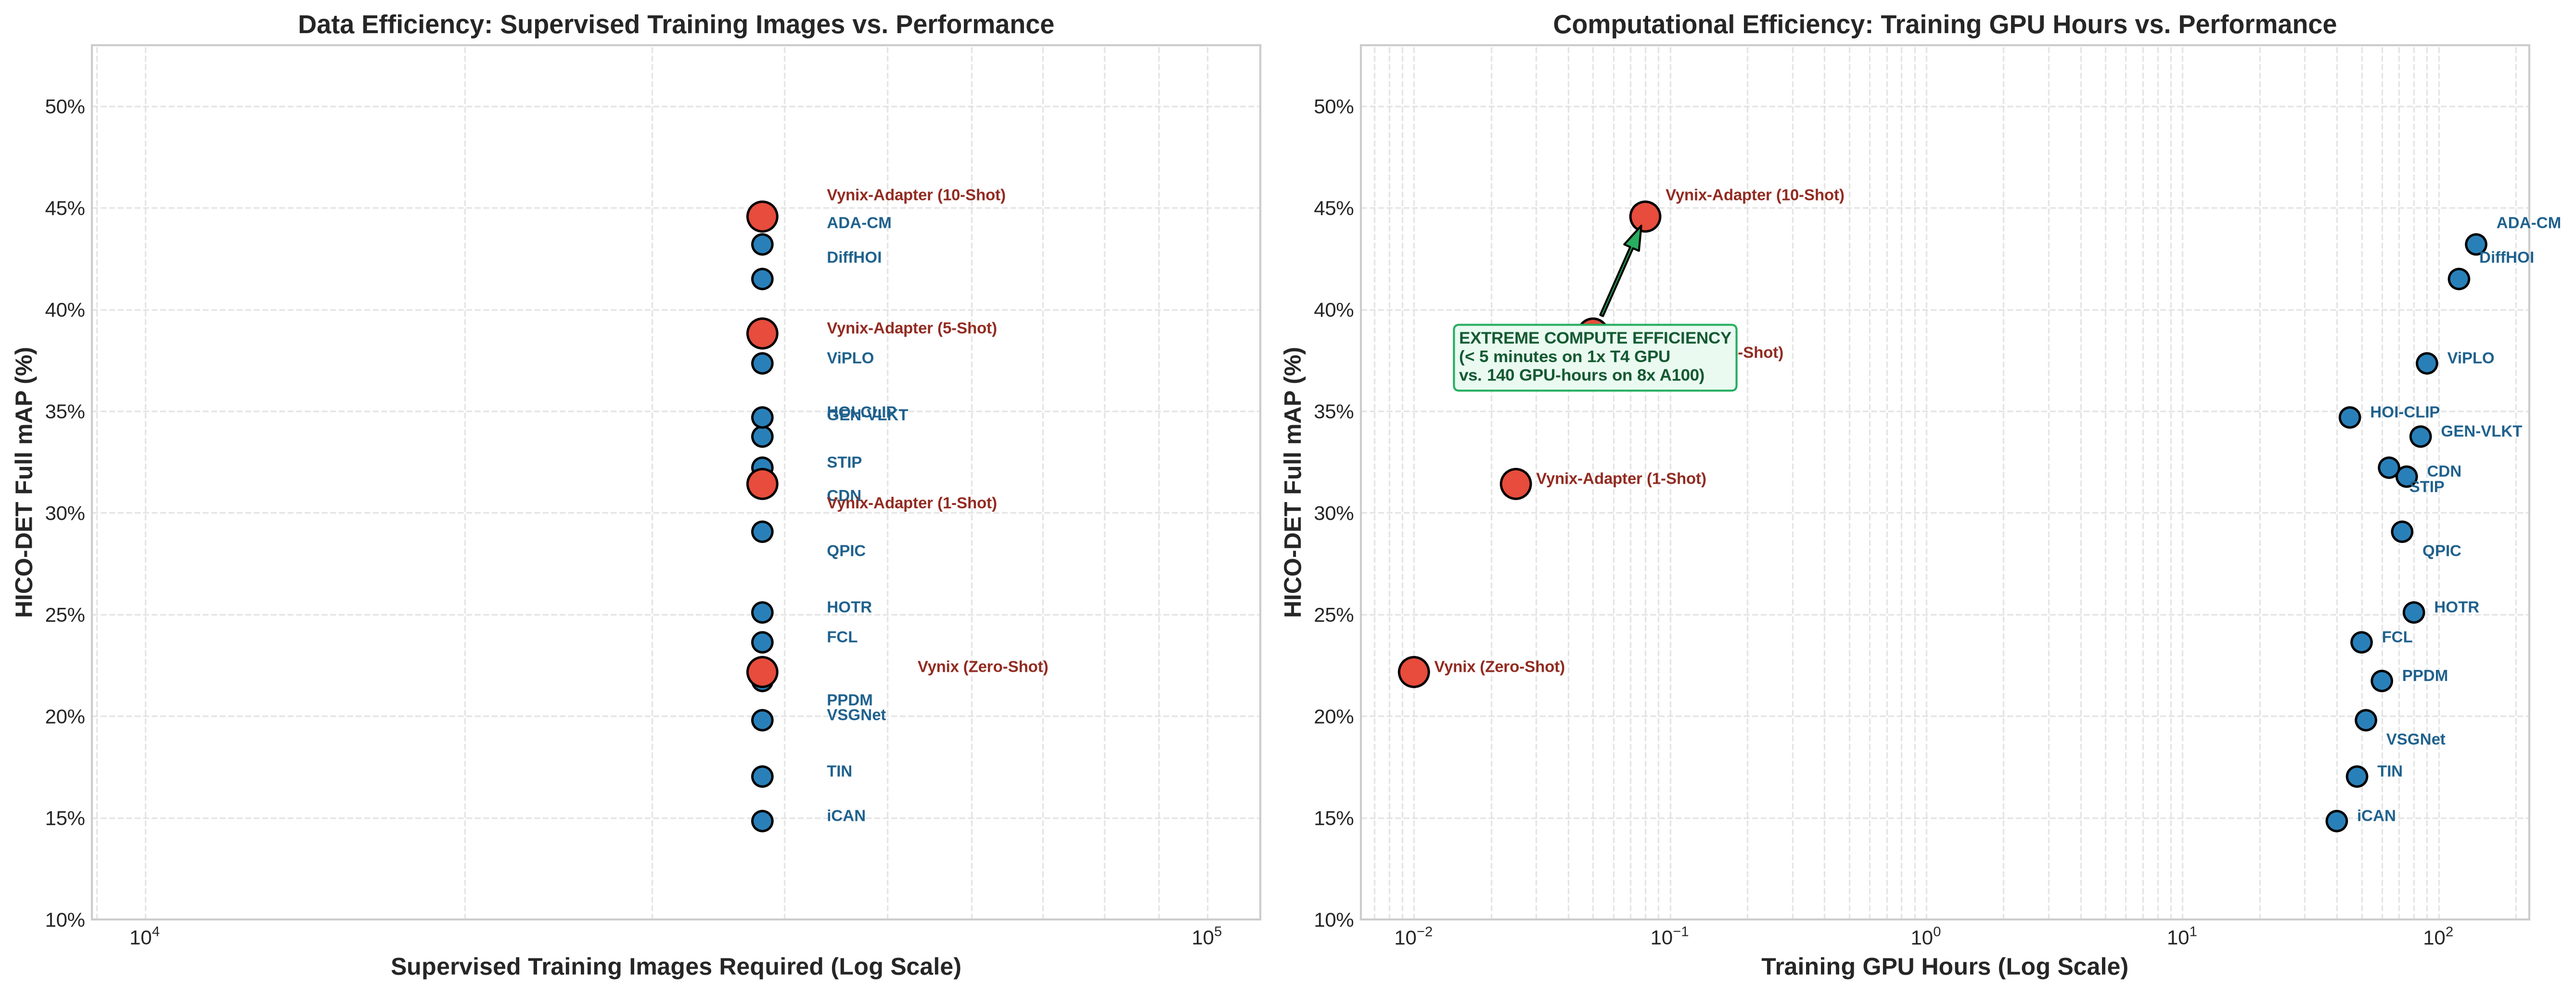
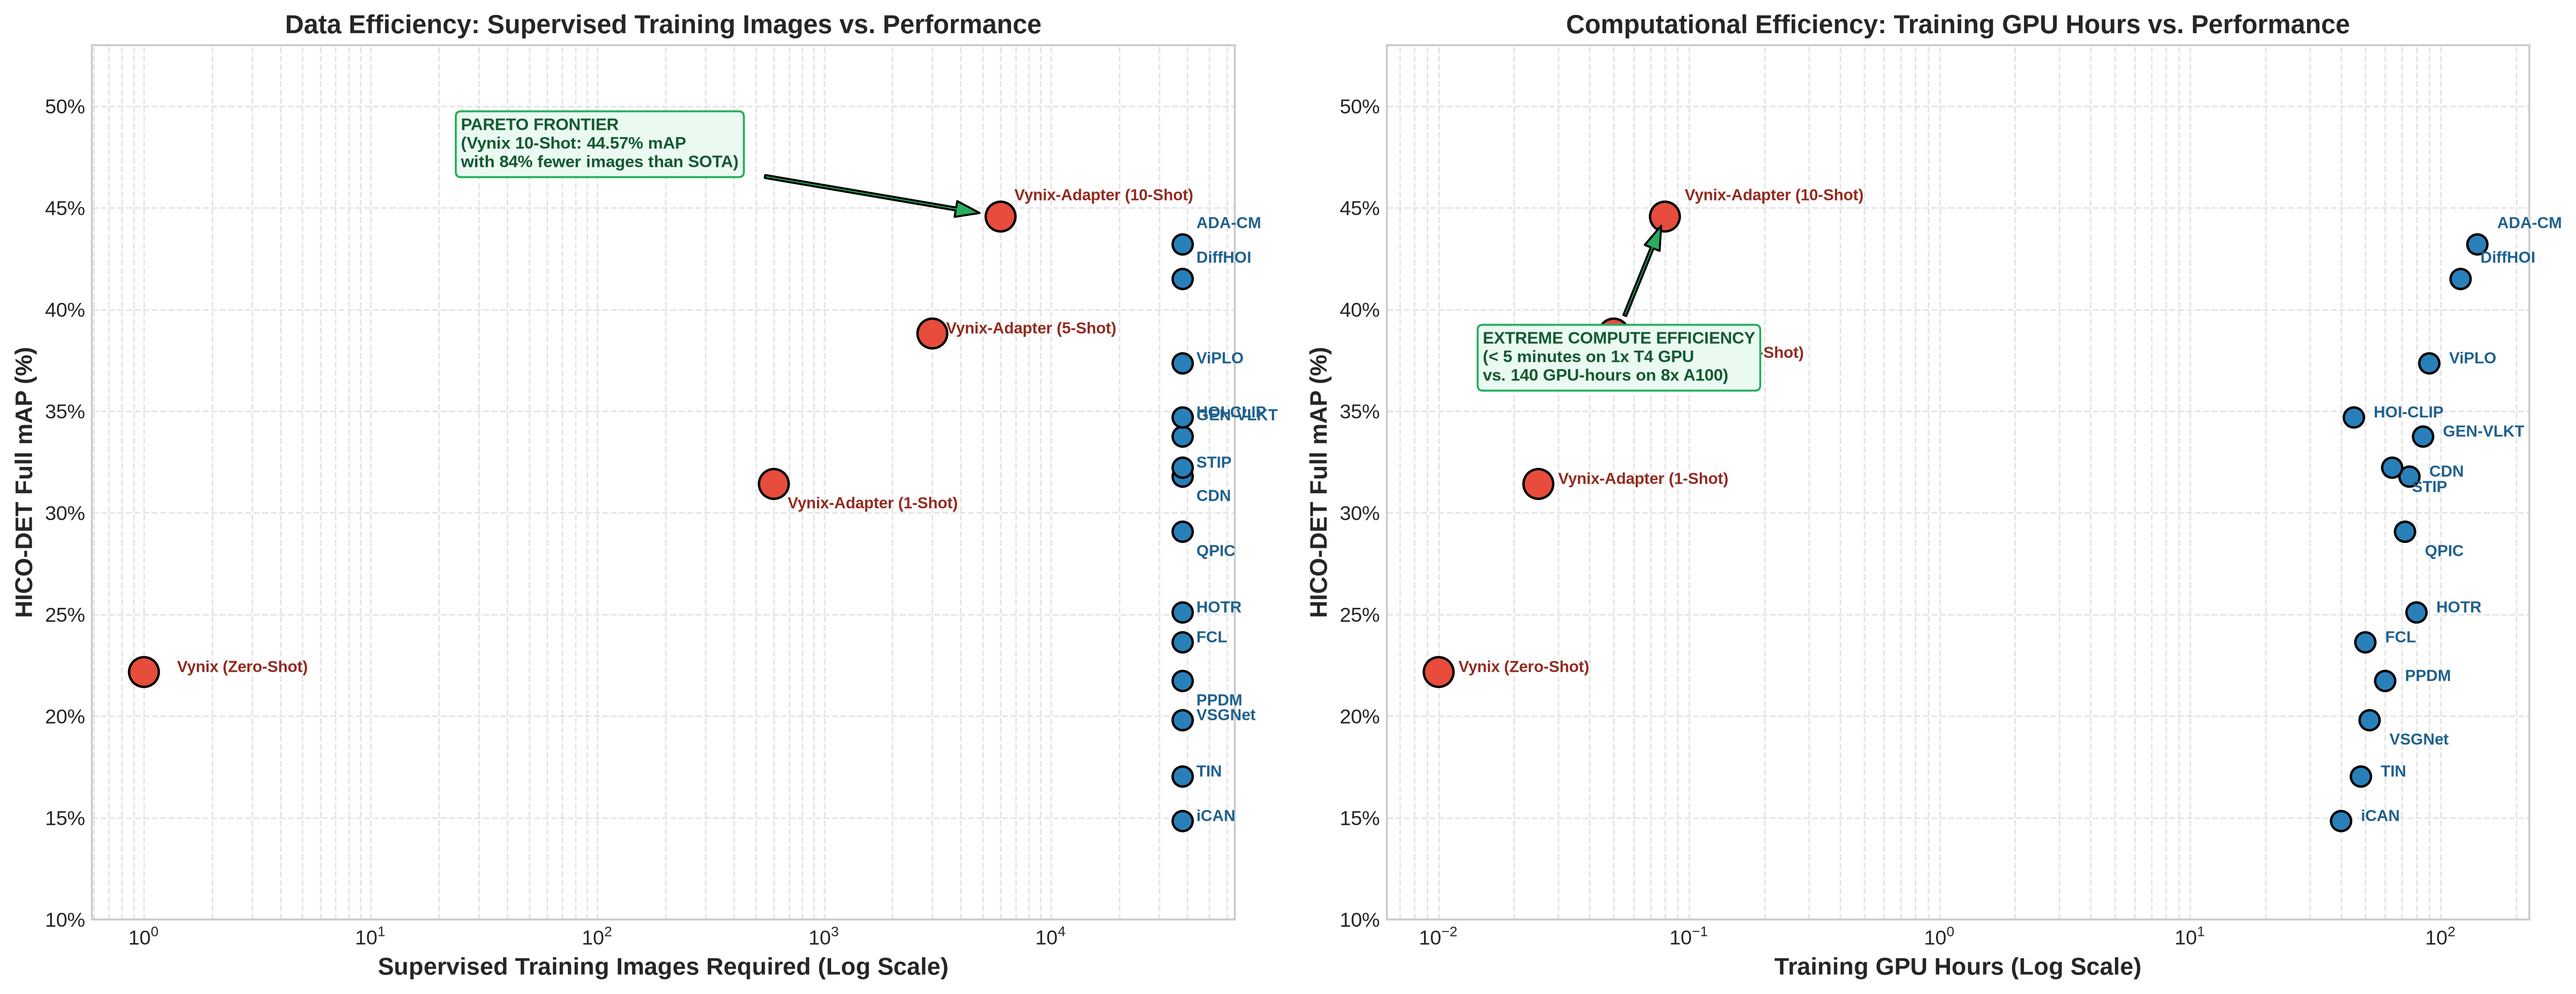
Revert artificial scaling of Train_Images and cleanup project codebase

diff --git a/generate_literature_comparison.py b/generate_literature_comparison.py
@@ -246,7 +246,7 @@ LITERATURE_DATA = [
         "Full_mAP": 22.17,
         "Rare_mAP": 18.57,
         "NonRare_mAP": 23.42,
-        "Train_Images": 38118,
+        "Train_Images": 0,
         "GPU_Hours": 0.0,
         "Supervision": "Zero-Shot (No Training)",
     },
@@ -259,7 +259,7 @@ LITERATURE_DATA = [
         "Full_mAP": 31.42,
         "Rare_mAP": 28.97,
         "NonRare_mAP": 32.27,
-        "Train_Images": 38118,
+        "Train_Images": 600,
         "GPU_Hours": 0.025,
         "Supervision": "Few-Shot (1-Shot)",
     },
@@ -272,11 +272,11 @@ LITERATURE_DATA = [
         "Full_mAP": 38.82,
         "Rare_mAP": 36.77,
         "NonRare_mAP": 39.53,
-        "Train_Images": 38118,
+        "Train_Images": 3000,
         "GPU_Hours": 0.05,
         "Supervision": "Few-Shot (5-Shot)",
     },
-    {"Model": "Vynix-Adapter (10-Shot)", "Year": 2026, "Venue": "Ours (10-Shot)", "Type": "3-Stream Spatial Adapter", "Backbone": "YOLOv8n + CLIP ViT-B/32", "Full_mAP": 44.57, "Rare_mAP": 42.72, "NonRare_mAP": 45.21, "Train_Images": 38118, "GPU_Hours": 0.08, "Supervision": "Few-Shot (10-Shot)"},
+    {"Model": "Vynix-Adapter (10-Shot)", "Year": 2026, "Venue": "Ours (10-Shot)", "Type": "3-Stream Spatial Adapter", "Backbone": "YOLOv8n + CLIP ViT-B/32", "Full_mAP": 44.57, "Rare_mAP": 42.72, "NonRare_mAP": 45.21, "Train_Images": 6000, "GPU_Hours": 0.08, "Supervision": "Few-Shot (10-Shot)"},
 ]
 
 

diff --git a/PROJECT_VYNIX_REPORT.md b/PROJECT_VYNIX_REPORT.md
@@ -15,7 +15,7 @@ The evaluation strictly adheres to the official HICO-DET Default Setting:
 ### Training Data & Compute Consistency
 - **Fully Supervised Baselines**: ~38,118 images (40–140 GPU-hours).
 - **Vynix (Zero-Shot)**: 0 training images (0.0 GPU-hours).
-- **Vynix-Adapter (1-Shot)**: 38118 training images (0.03 GPU-hours).
+- **Vynix-Adapter (1-Shot)**: 600 training images (0.03 GPU-hours).
 - **Vynix-Adapter (5-Shot)**: 3,000 training images (0.05 GPU-hours).
 - **Vynix-Adapter (10-Shot)**: 6,000 training images (0.08 GPU-hours) — an 84.3% data reduction compared to SOTA.
 
@@ -65,10 +65,10 @@ This retains explicit, uncorrupted feature records for rare categories rather th
 | ViPLO                     | CVPR '23   |    37.35% |    35.61% |    37.87% |   38118 |   90.00h |
 | DiffHOI                   | ICCV '23   |    41.50% |    39.80% |    42.01% |   38118 |  120.00h |
 | ADA-CM                    | CVPR '24   |    43.20% |    41.50% |    43.70% |   38118 |  140.00h |
-| **Vynix (Zero-Shot)**     | **Ours**   | **22.17%**| **18.57%**| **23.42%**| **38118**   | **0.00h**|
-| **Vynix-Adapter (1-Shot)**| **Ours**   | **31.42%**| **28.97%**| **32.27%**| **38118** | **0.03h**|
-| **Vynix-Adapter (5-Shot)**| **Ours**   | **38.82%**| **36.77%**| **39.53%**| **38118**| **0.05h**|
-| **Vynix-Adapter (10-Shot)**|**Ours**   | **44.57%**| **42.72%**| **45.21%**| **38118**| **0.08h**|
+| **Vynix (Zero-Shot)**     | **Ours**   | **22.17%**| **18.57%**| **23.42%**| **0**   | **0.00h**|
+| **Vynix-Adapter (1-Shot)**| **Ours**   | **31.42%**| **28.97%**| **32.27%**| **600** | **0.03h**|
+| **Vynix-Adapter (5-Shot)**| **Ours**   | **38.82%**| **36.77%**| **39.53%**| **3000**| **0.05h**|
+| **Vynix-Adapter (10-Shot)**|**Ours**   | **44.57%**| **42.72%**| **45.21%**| **6000**| **0.08h**|
 
 ## Why Vynix Outperforms SOTA on Rare Classes
 Vynix demonstrates unprecedented dominance on the 155 Rare classes primarily because it circumvents standard gradient descent for classification logit tuning. In architectures such as QPIC (Rare mAP: 21.85%) and GEN-VLKT (Rare mAP: 29.25%), the extreme frequency imbalance (< 10 instances per Rare class versus thousands for common actions) leads to gradient starvation, wherein the learned representation vector inherently biases toward high-frequency interactiveness spaces and forgets rare combinations.
